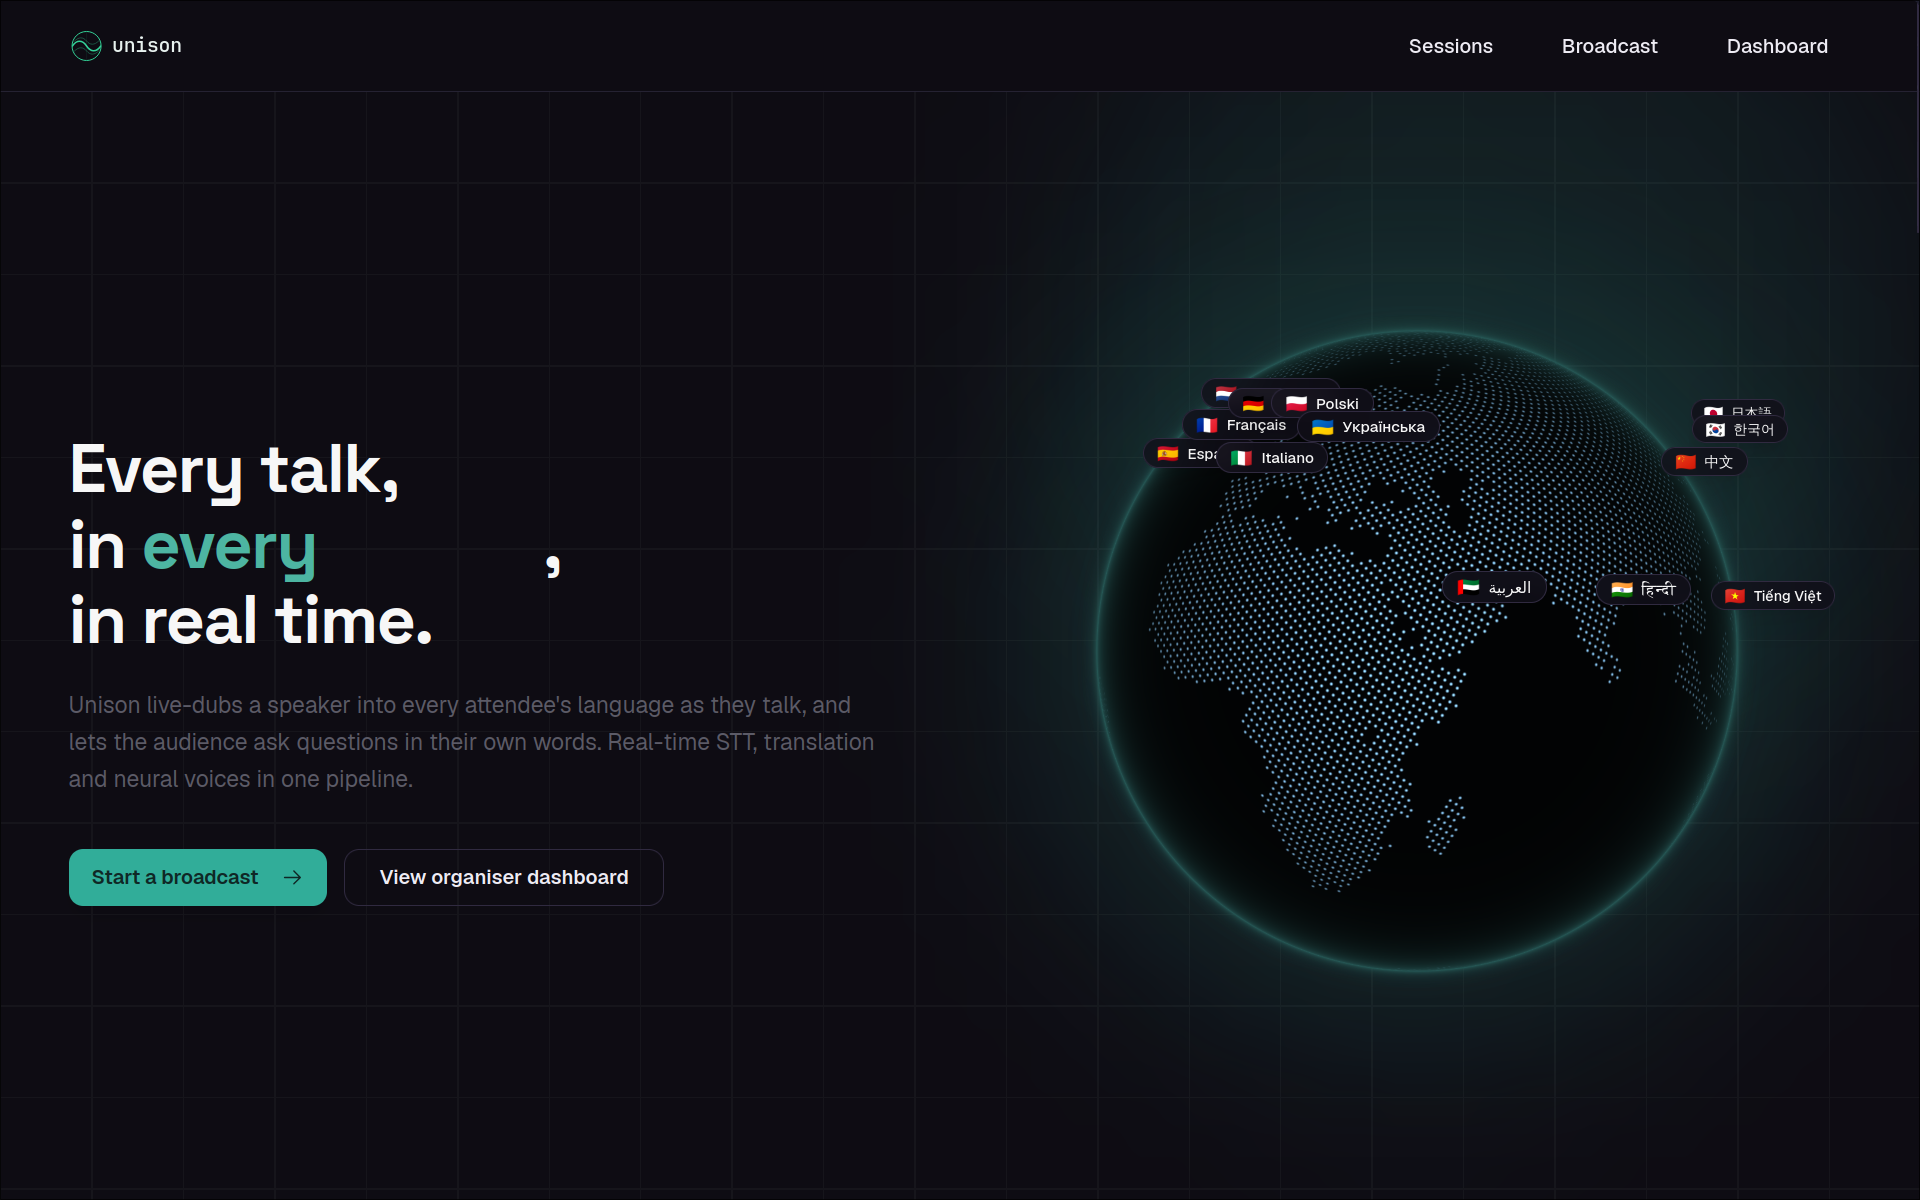
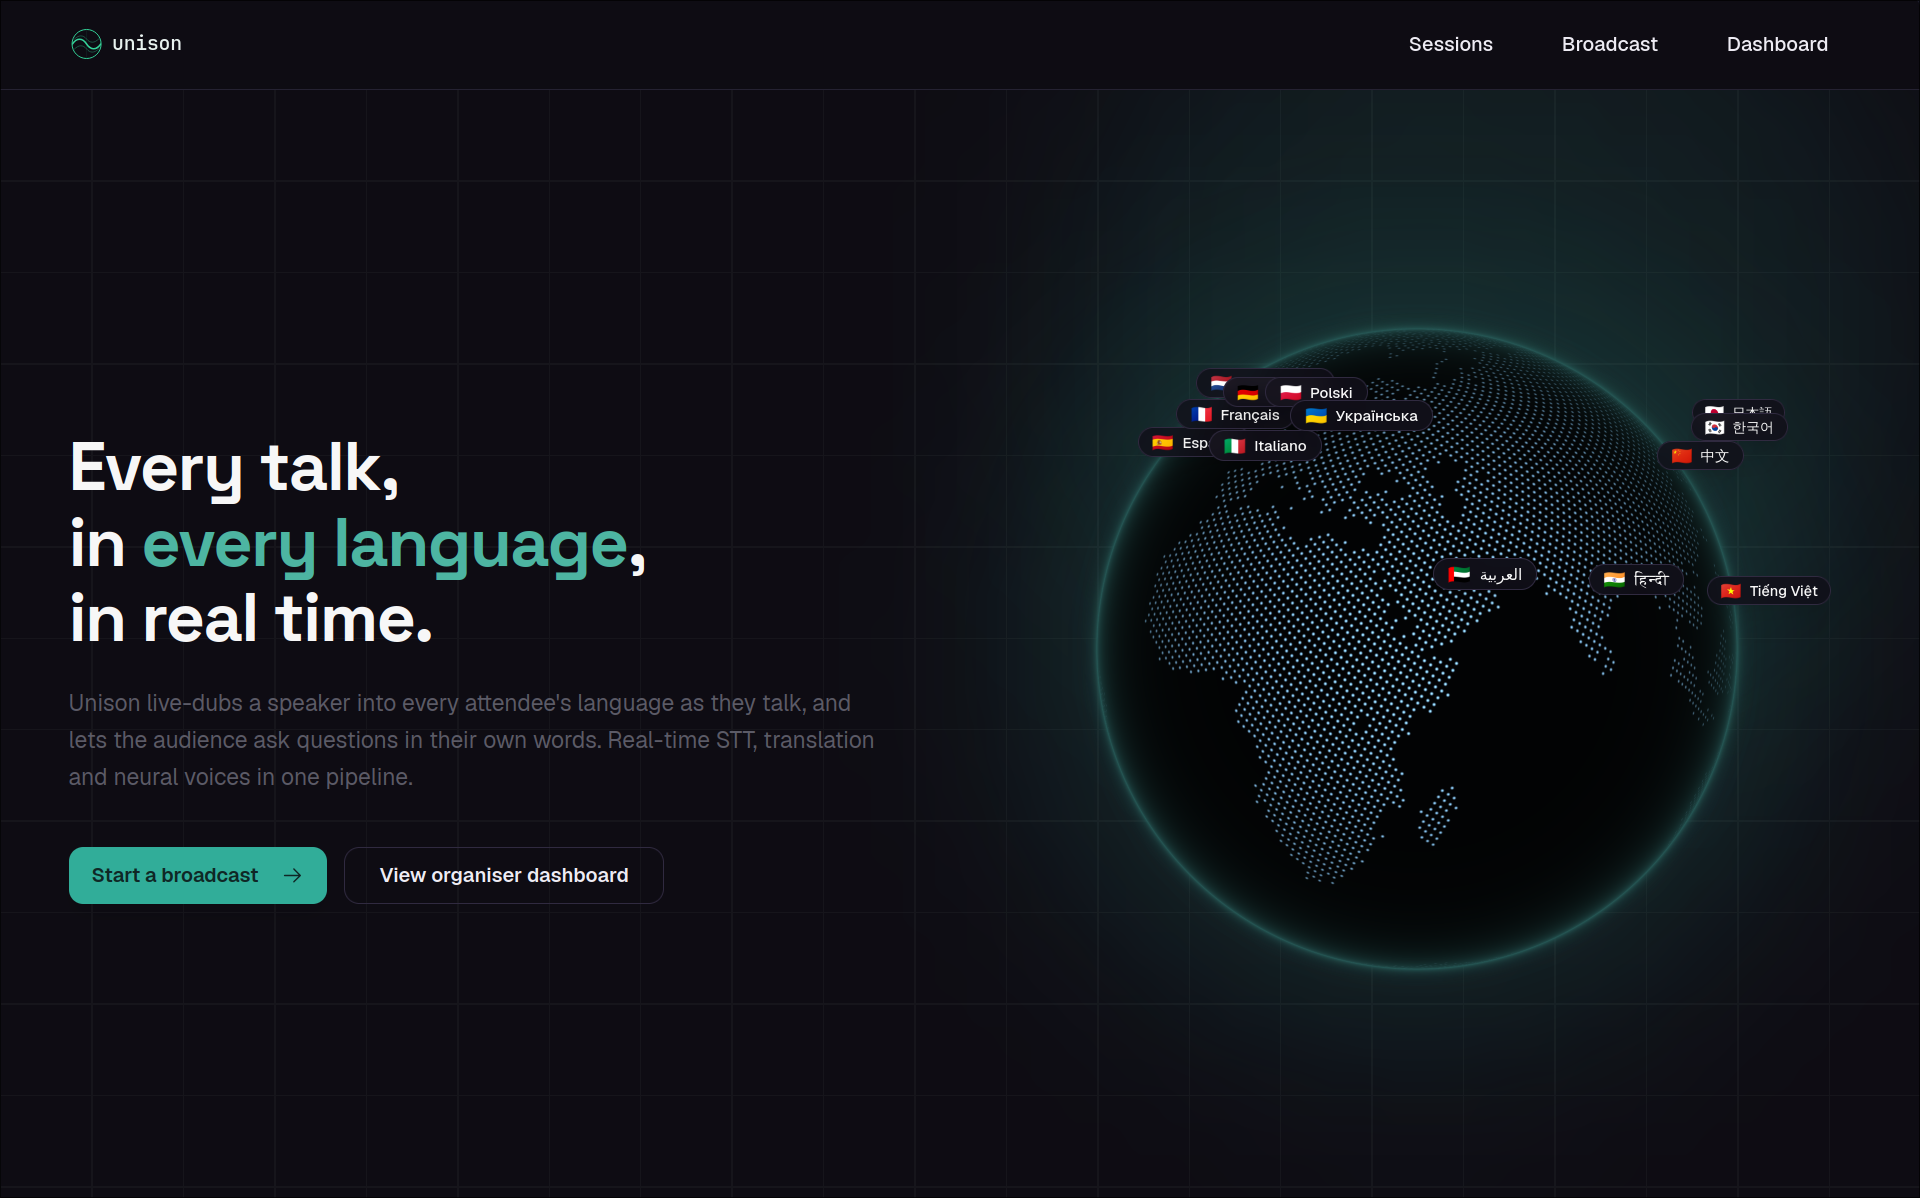
Update hero image and embed architecture diagram

diff --git a/ARCHITECTURE.md b/ARCHITECTURE.md
@@ -1,5 +1,9 @@
 # Unison Architecture
 
+<div align="center">
+  <img src="public/arch.svg" alt="Unison architecture diagram" width="100%" />
+</div>
+
 ## System Overview
 
 Two processes run simultaneously: